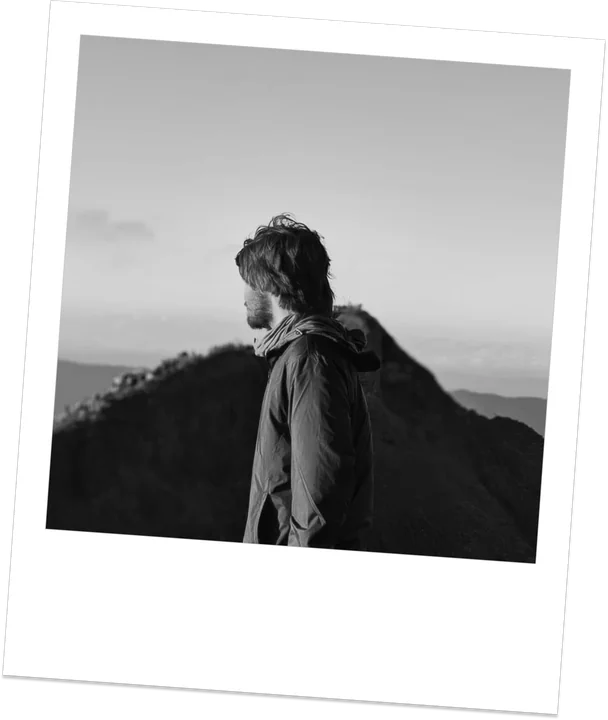
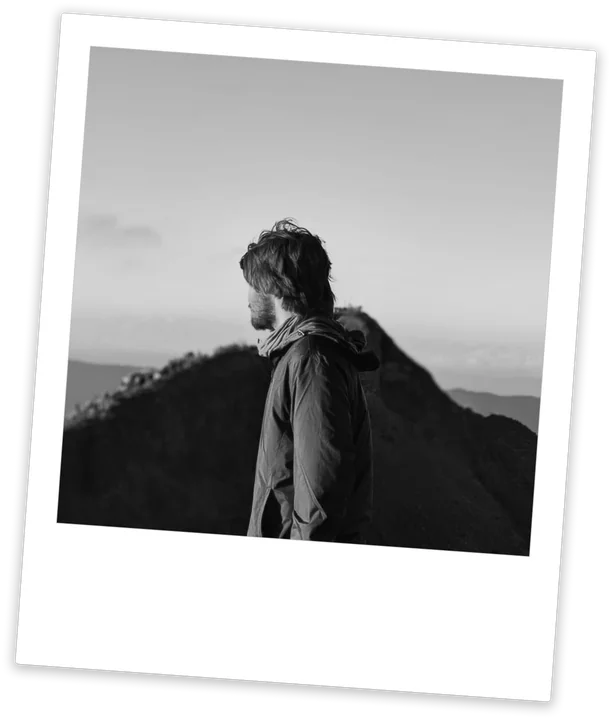
Fix: Update polaroid.webp

diff --git a/src/app/page.tsx b/src/app/page.tsx
@@ -56,7 +56,7 @@ export default function Home() {
             <Image
               src="/hero/polaroid.webp"
               alt="polaroid"
-              width={608}
+              width={612}
               height={720}
               className="h-48 w-auto shrink-0 self-center md:h-53.5 md:self-start"
               priority
